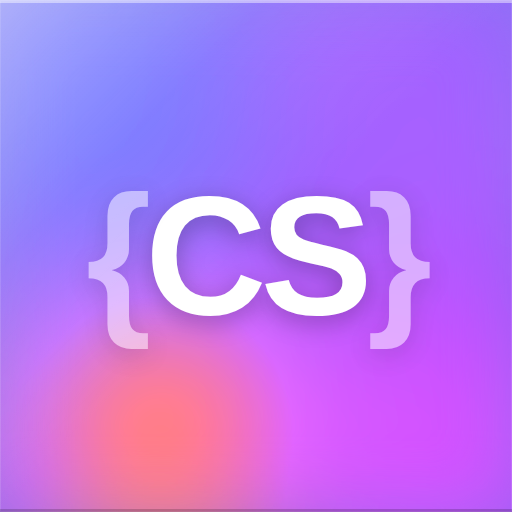
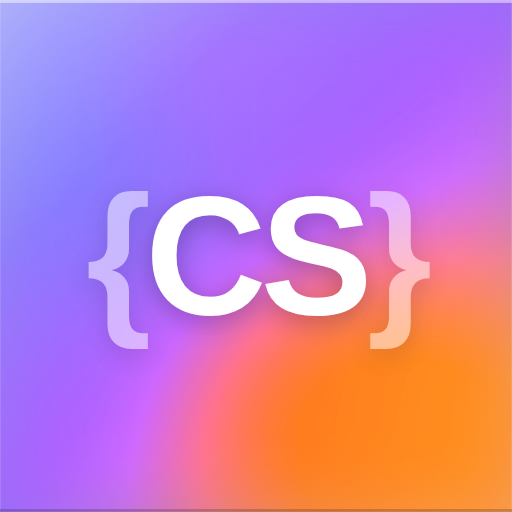
404 page

diff --git a/src/sections/NotFound/NotFound.module.css b/src/sections/NotFound/NotFound.module.css
@@ -1,0 +1,68 @@
+.wrap {
+  min-height: 100vh;
+  display: flex;
+  align-items: center;
+  justify-content: center;
+  padding: 24px;
+}
+
+.card {
+  max-width: 480px;
+  width: 100%;
+  text-align: center;
+  padding: 48px 40px;
+  border-radius: var(--radius);
+  border: 1px solid var(--glass-border);
+  background: var(--glass-bg);
+  backdrop-filter: blur(16px) saturate(140%);
+  -webkit-backdrop-filter: blur(16px) saturate(140%);
+  box-shadow: 0 24px 60px var(--shadow-strong);
+}
+
+.code {
+  font-size: clamp(3.5rem, 12vw, 5rem);
+  font-weight: 800;
+  letter-spacing: -2px;
+  line-height: 1;
+  margin-bottom: 18px;
+}
+
+.brace {
+  color: var(--accent);
+  font-family: var(--font-mono);
+}
+
+.title {
+  font-size: 1.4rem;
+  margin-bottom: 10px;
+}
+
+.lead {
+  color: var(--text-muted);
+  font-size: 0.98rem;
+  line-height: 1.6;
+  margin-bottom: 30px;
+}
+
+.home {
+  display: inline-flex;
+  align-items: center;
+  gap: 9px;
+  padding: 13px 26px;
+  border-radius: 999px;
+  font-weight: 600;
+  color: #fff;
+  background: var(--accent);
+  box-shadow: 0 10px 28px var(--shadow-strong);
+  transition: background var(--transition), transform 0.15s ease;
+}
+
+.home:hover {
+  background: var(--accent-hover);
+  transform: translateY(-2px);
+}
+
+.home svg {
+  width: 18px;
+  height: 18px;
+}

diff --git a/src/App.jsx b/src/App.jsx
@@ -9,8 +9,13 @@ import Experience from "./sections/Experience/Experience";
 import Skills from "./sections/Skills/Skills";
 import Projects from "./sections/Projects/Projects";
 import Contact from "./sections/Contact/Contact";
+import NotFound from "./sections/NotFound/NotFound";
 import ScrollToTop from "./components/ScrollToTop/ScrollToTop";
 import ScrollProgress from "./components/ScrollProgress/ScrollProgress";
+
+// soft 404 : toute URL hors racine affiche la vue NotFound (dans la coquille du site)
+const path = typeof window !== "undefined" ? window.location.pathname : "/";
+const isNotFound = path !== "/" && path !== "/index.html";
 
 export default function App() {
   const { t, i18n } = useTranslation();
@@ -44,19 +49,25 @@ export default function App() {
       <a href="#main-content" className="skip-link">
         {t("a11y.skip")}
       </a>
-      <ScrollProgress />
+      {!isNotFound && <ScrollProgress />}
       <Background />
-      <Navbar />
-      <main id="main-content" ref={mainRef}>
-        <Hero />
-        <About />
-        <Experience />
-        <Skills />
-        <Projects />
-        <Contact />
-      </main>
+      {!isNotFound && <Navbar />}
+      {isNotFound ? (
+        <main id="main-content">
+          <NotFound />
+        </main>
+      ) : (
+        <main id="main-content" ref={mainRef}>
+          <Hero />
+          <About />
+          <Experience />
+          <Skills />
+          <Projects />
+          <Contact />
+        </main>
+      )}
       <Footer />
-      <ScrollToTop />
+      {!isNotFound && <ScrollToTop />}
     </>
   );
 }

diff --git a/src/sections/NotFound/NotFound.jsx b/src/sections/NotFound/NotFound.jsx
@@ -1,0 +1,31 @@
+import { useTranslation } from "react-i18next";
+import { TbArrowLeft } from "react-icons/tb";
+import styles from "./NotFound.module.css";
+
+/**
+ * Vue 404 « soft » : affichée par App quand l'URL ne correspond pas à la racine.
+ * Rendue DANS la coquille du site (navbar + thème + i18n), donc cohérente.
+ */
+export default function NotFound() {
+  const { t } = useTranslation();
+
+  return (
+    <section className={styles.wrap} aria-labelledby="nf-title">
+      <div className={styles.card}>
+        <p className={styles.code}>
+          <span className={styles.brace} aria-hidden="true">{"{ "}</span>
+          404
+          <span className={styles.brace} aria-hidden="true">{" }"}</span>
+        </p>
+        <h1 id="nf-title" className={styles.title}>
+          {t("notFound.title")}
+        </h1>
+        <p className={styles.lead}>{t("notFound.lead")}</p>
+        <a className={styles.home} href="/">
+          <TbArrowLeft aria-hidden="true" />
+          {t("notFound.home")}
+        </a>
+      </div>
+    </section>
+  );
+}

diff --git a/icon-src/apple-icon.html b/icon-src/apple-icon.html
@@ -8,10 +8,10 @@
          tout le cadre (height:100%/100vh laissait une bande blanche en bas). */
       html, body { width: 512px; height: 512px; overflow: hidden; }
 
-      /* dégradé plein cadre + taches floutées par-dessus */
+      /* dégradé bi-thème : indigo froid (jour) -> ambre chaud (nuit), en diagonale */
       body {
         position: relative;
-        background: linear-gradient(150deg, #6366f1 0%, #8b5cf6 55%, #7c3aed 100%);
+        background: linear-gradient(135deg, #6366f1 0%, #8b5cf6 50%, #fb923c 105%);
         font-family: "Segoe UI", Helvetica, Arial, sans-serif;
       }
       .blob {
@@ -19,10 +19,11 @@
         border-radius: 50%;
         filter: blur(70px);
       }
+      /* indigo en haut-gauche (froid), ambre en bas-droite (chaud) */
       .b1 { width: 320px; height: 320px; top: -70px; left: -70px; background: #6366f1; }
-      .b2 { width: 300px; height: 300px; bottom: -90px; right: -60px; background: #a855f7; }
-      .b3 { width: 240px; height: 240px; bottom: -40px; left: 40px; background: #fb923c; opacity: 0.85; }
-      .b4 { width: 220px; height: 220px; top: -30px; right: 30px; background: #8b5cf6; }
+      .b2 { width: 320px; height: 320px; bottom: -80px; right: -70px; background: #fb923c; }
+      .b3 { width: 240px; height: 240px; bottom: -30px; right: 90px; background: #f97316; opacity: 0.7; }
+      .b4 { width: 220px; height: 220px; top: -30px; left: 120px; background: #8b5cf6; }
 
       /* dalle de verre depoli plein bord (iOS applique son propre masque arrondi) */
       .glass {

diff --git a/src/components/Navbar/Navbar.jsx b/src/components/Navbar/Navbar.jsx
@@ -74,8 +74,8 @@ export default function Navbar() {
 
   return (
     <>
-      {/* logo flottant en haut à gauche */}
-      <a href="#hero" className={styles.logo} aria-label="Camil Saunier">
+      {/* logo flottant en haut à gauche (lien absolu -> marche aussi depuis la 404) */}
+      <a href="/#hero" className={styles.logo} aria-label="Camil Saunier">
         <span className={styles.logoMark}>{"{"}</span>
         <span className={styles.logoName}>CS</span>
         <span className={styles.logoMark}>{"}"}</span>
@@ -94,7 +94,7 @@ export default function Navbar() {
           return (
             <a
               key={id}
-              href={`#${id}`}
+              href={`/#${id}`}
               className={`${styles.item} ${active === id ? styles.active : ""}`}
               aria-label={label}
               title={label}